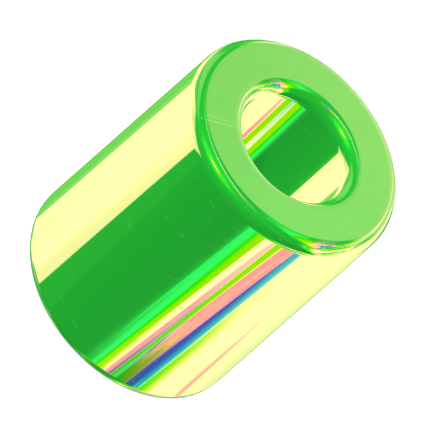
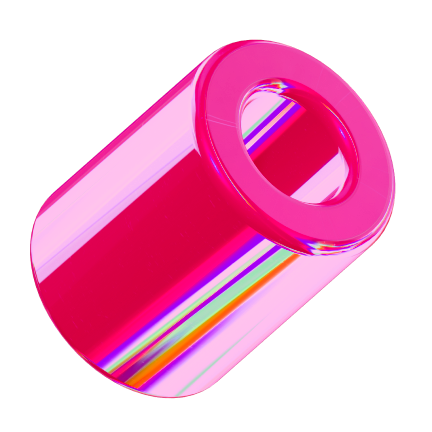
added homne images and changed the colour scheme

diff --git a/src/components/HomeCarousel.tsx b/src/components/HomeCarousel.tsx
@@ -1,0 +1,88 @@
+'use client'
+
+import * as React from "react"
+import { Card, CardContent } from "@/components/ui/card"
+import {
+  Carousel,
+  CarouselContent,
+  CarouselItem,
+  CarouselNext,
+  CarouselPrevious,
+  type CarouselApi,
+} from "@/components/ui/carousel"
+
+import Autoplay from "embla-carousel-autoplay"
+
+import ancientHomes from '@/assets/homeImages/ancientHomes.jpg'
+import beautifulTaj from '@/assets/homeImages/beautifulTaj.jpg'
+import boats from '@/assets/homeImages/boats.jpg'
+import buffalo from '@/assets/homeImages/buffalo.jpg'
+import dove from '@/assets/homeImages/dove.jpg'
+import goldenTemple from '@/assets/homeImages/goldenTemple.jpg'
+import lakeView from '@/assets/homeImages/lakeView.jpg'
+import lion from '@/assets/homeImages/lion.jpg'
+import mountainView from '@/assets/homeImages/mountainView.jpg'
+import peacock from '@/assets/homeImages/peacock.jpg'
+import riverView from '@/assets/homeImages/riverView.jpg'
+import tajmahal from '@/assets/homeImages/tajmahal.jpg'
+import teaPlant from '@/assets/homeImages/teaPlant.jpg'
+import trainView from '@/assets/homeImages/trainView.jpg'
+import villageOx from '@/assets/homeImages/villageOx.jpg'
+import Image from "next/image"
+
+
+const data: any = [ancientHomes, beautifulTaj, boats, buffalo, dove, goldenTemple, lakeView, lion, mountainView, 
+peacock, riverView, tajmahal, teaPlant, trainView, villageOx, ]
+
+
+export function HomeCarousel() {
+  const [api, setApi] = React.useState<CarouselApi>()
+  const [current, setCurrent] = React.useState(0)
+  const [count, setCount] = React.useState(0)
+
+
+  const plugin:any = React.useRef(
+    Autoplay({ delay: 3000 })
+  )
+
+
+  React.useEffect(() => {
+    if (!api) {
+      return
+    }
+
+    setCount(api.scrollSnapList().length)
+    setCurrent(api.selectedScrollSnap() + 1)
+
+    api.on("select", () => {
+      setCurrent(api.selectedScrollSnap() + 1)
+    })
+  }, [api])
+
+  return (
+     <Carousel
+      plugins={[plugin.current]}
+      className="w-full max-w-xs"
+      // onMouseEnter={plugin.current.stop}
+      // onMouseLeave={plugin.current.reset}
+    >
+      <CarouselContent>
+
+        {data.map((ddd:any, index:string) => (
+          <CarouselItem key={index}>
+            <div className="">
+              <Card>
+                <CardContent className="relative flex aspect-square items-center justify-center ">
+                    <Image src={ddd} alt="image" fill />
+                </CardContent>
+              </Card>
+            </div>
+          </CarouselItem>
+        ))}
+
+      </CarouselContent> 
+      {/* <CarouselPrevious />
+      <CarouselNext /> */}
+    </Carousel>
+  )
+}

diff --git a/src/sections/Hero.tsx b/src/sections/Hero.tsx
@@ -6,6 +6,7 @@ import noodleImage from "@/assets/noodle.png"
 import { motion, useScroll, useTransform } from 'framer-motion'
 import { useRef } from "react";
 import EnquiryForm from "./EnquiryForm";
+import { HomeCarousel } from "@/components/HomeCarousel"
 
 
  
@@ -19,7 +20,7 @@ export const Hero = () => {
 
 
   return(
-    <section ref={heroRef} className="pt-8 pb-20 md:pt-5 md:pb-10 bg-[radial-gradient(ellipse_150%_50%_at_bottom_left,#75eb2d,#f0feea_100%)] overflow-x-clip">
+    <section ref={heroRef} className="pt-8 pb-20 md:pt-5 md:pb-10 bg-[radial-gradient(ellipse_150%_50%_at_bottom_left,#780540,#edd1df_100%)] overflow-x-clip">
 
       <div className="container">
         <div className="md:flex items-center">
@@ -28,10 +29,10 @@ export const Hero = () => {
                 <div className="tag">
                   Travel around.
                 </div>
-                <h1 className="text-5xl md:text-5xl font-bold tracking-tighter bg-gradient-to-b from-black to-[#1c4205] text-transparent bg-clip-text mt-6">
+                <h1 className="text-5xl md:text-5xl font-bold tracking-tighter bg-gradient-to-b from-black to-[#31011a] text-transparent bg-clip-text mt-6">
                   Welcome to Ahlan Hind!
                 </h1>
-                <p className="text-xl text-[#1c4205] tracking-tight mt-6">
+                <p className="text-xl text-[#4b0328] tracking-tight mt-6">
                 Hospitality is one of the most treasured values of Indian culture and lies at the heart of our desire to open our doors to 
                 international travellers..
                 </p>
@@ -48,7 +49,7 @@ export const Hero = () => {
             </div>
 
             <div className="mt-20 md:mt-0 md:h-[648px] md:flex-1 relative">
-              <motion.img src={CogImage.src} alt="Cog Image" 
+              {/* <motion.img src={CogImage.src} alt="Cog Image" 
               className="md:absolute md:h-full md:w-auto md:max-w-none md:-left-6 lg:left-0"
               animate={{
                 translateY: [-30, 30],
@@ -59,7 +60,12 @@ export const Hero = () => {
                 duration: 3,
                 ease: "easeInOut"
               }}
-              />
+              /> */}
+
+            <div className="rotate-6 mt-36 ml-44 md:absolute md:h-full md:w-auto md:max-w-none md:-left-6 lg:left-0  ">
+             <HomeCarousel />             
+            </div>
+               
               <motion.img src={CylinderImage.src} width={220} height={220} alt="Cylinder Image"
                className="hidden md:block -top-8 -left-32 md:absolute"
                style={{

diff --git a/src/sections/EnquiryForm.tsx b/src/sections/EnquiryForm.tsx
@@ -1,7 +1,7 @@
 "use client"
 
 import { createEnquiry } from "@/app/actions/createEnquiry"
-import { useRef, useState } from "react"
+import { useRef } from "react"
 import { toast } from "react-hot-toast";
 
 function EnquiryForm() {
@@ -12,7 +12,7 @@ function EnquiryForm() {
   return (
     <section className="border bg-white min-h-full">
 
-    <h1 className="text-center mt-3 text-[#469922] font-bold">Enquiry</h1>
+    <h1 className="text-center mt-3 text-[#780540] font-bold">Enquiry</h1>
     <div className="flex justify-between">
     <form ref={ref} className="flex flex-col p-3 font-semibold font-sans"
         action={async (formData) => {
@@ -26,27 +26,27 @@ function EnquiryForm() {
         <div className="flex space-x-2">
 
             <input placeholder="Full Name" required minLength={3} maxLength={15}
-                className="mb-5 shadow border rounded p-1 form-input mt-1 block w-full ring-[#83eb57] outline-none focus:ring" 
+                className="mb-5 shadow border rounded p-1 form-input mt-1 block w-full ring-[#780540] outline-none focus:ring" 
                 type="text" name="fullname" />
 
             <input placeholder="Phone" required minLength={7} maxLength={15}
-                className="mb-5 shadow border rounded p-1 form-input mt-1 block w-full ring-[#83eb57] outline-none focus:ring" 
+                className="mb-5 shadow border rounded p-1 form-input mt-1 block w-full ring-[#780540] outline-none focus:ring" 
                 type="text" name="phone" />
 
             <input placeholder="Email" required minLength={7} maxLength={30}
-                className="mb-5 shadow border rounded p-1 form-input mt-1 block w-full ring-[#83eb57] outline-none focus:ring" 
+                className="mb-5 shadow border rounded p-1 form-input mt-1 block w-full ring-[#780540] outline-none focus:ring" 
                 type="email" name="email" />
         </div>
 
 
         <textarea 
           placeholder="Message" required minLength={3} maxLength={200}
-          className=" shadow border rounded block mt-1 p-2 w-full ring-[#83eb57] outline-none focus:ring form-textarea"
+          className=" shadow border rounded block mt-1 p-2 w-full ring-[#780540] outline-none focus:ring form-textarea"
           rows={2} name="message"
         />
 
         <button type="submit" 
-              className="mt-3 h-10 w-full cursor-pointer border rounded font-bold  text-black bg-[#79ee47]"
+              className="mt-3 h-10 w-full cursor-pointer border rounded font-bold  text-white bg-[#780540]"
         >
             Submit
          </button>       

diff --git a/src/sections/Packages.tsx b/src/sections/Packages.tsx
@@ -23,7 +23,7 @@ async function Packages() {
                 </div>
                 
                 <div className="section-heading flex flex-col gap-2">
-                    <h2 className="section-title text-5xl md:text-5xl font-bold tracking-tighter bg-gradient-to-b from-black to-[#1c4205] text-transparent bg-clip-text mt-6">Explore Kerala Tourism</h2>
+                    <h2 className="section-title text-5xl md:text-5xl font-bold tracking-tighter bg-gradient-to-b from-black to-[#780540] text-transparent bg-clip-text mt-6">Explore Kerala Tourism</h2>
                     <p className="section-description mt-4">
                         The South-west state of India, Kerala enjoys all the blessings of nature – a long coastline, 
                         mountain stretches, meandering rivers, stunning water falls, dense forests, surf washed beaches, & dazzling monsoon.

diff --git a/src/sections/ProductList.tsx b/src/sections/ProductList.tsx
@@ -25,7 +25,7 @@ export const ProductList = () => {
           <div className="flex justify-center">
             <div className="tag">Select your interests</div>
           </div>
-            <h2 className="section-title mt-5 mb-16 bg-gradient-to-b from-black to-[#1c4205] text-transparent">
+            <h2 className="section-title mt-5 mb-16 bg-gradient-to-b from-black to-[#780540] text-transparent">
                 Trust our experience to share natural beauty!
             </h2>
             {/* <p className="section-description mt-5 text-[#1c4205]">

diff --git a/src/sections/Header.tsx b/src/sections/Header.tsx
@@ -22,7 +22,7 @@ export const Header = () => {
   return (
     <header className='sticky top-0 backdrop-blur-sm z-20'>
 
-      <div className="flex justify-center items-center py-7 text-black text-sm bg-[radial-gradient(ellipse_100%_100%_at_bottom_left,#75eb2d,#f0feea_100%)]">
+      <div className="flex justify-center items-center py-7 text-white text-sm bg-[#780540]">
         {/* <div className='inline-flex gap-1 items-center'> */}
           {/* <p>Get started for free</p> */}
           <div className="flex justify-center gap-6">

diff --git a/src/app/globals.css b/src/app/globals.css
@@ -9,7 +9,7 @@
     }
 
     .btn-primary {
-        @apply bg-[#0e2401] text-white
+        @apply bg-[#780540] text-white
     }
 
     .btn-text {
